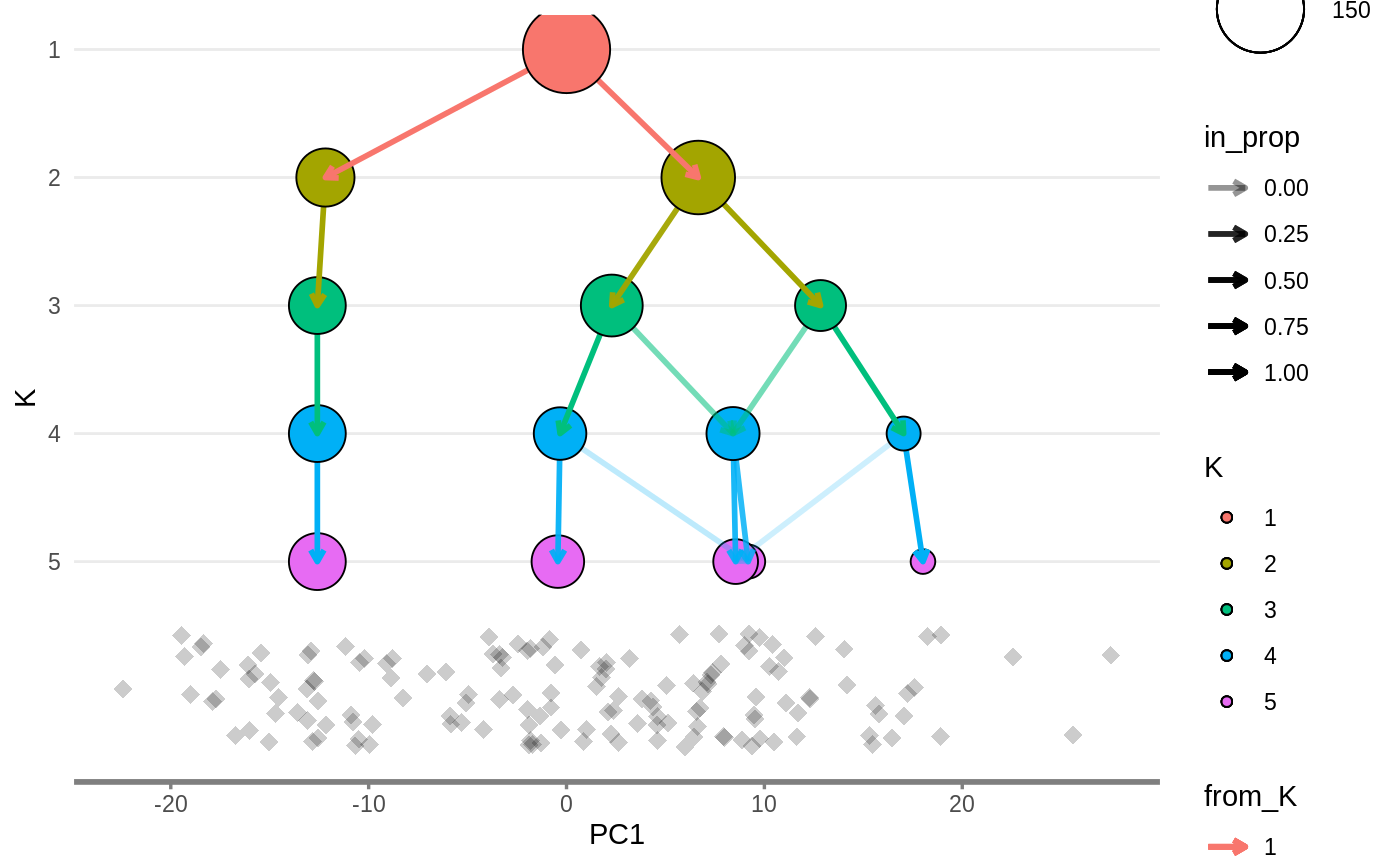
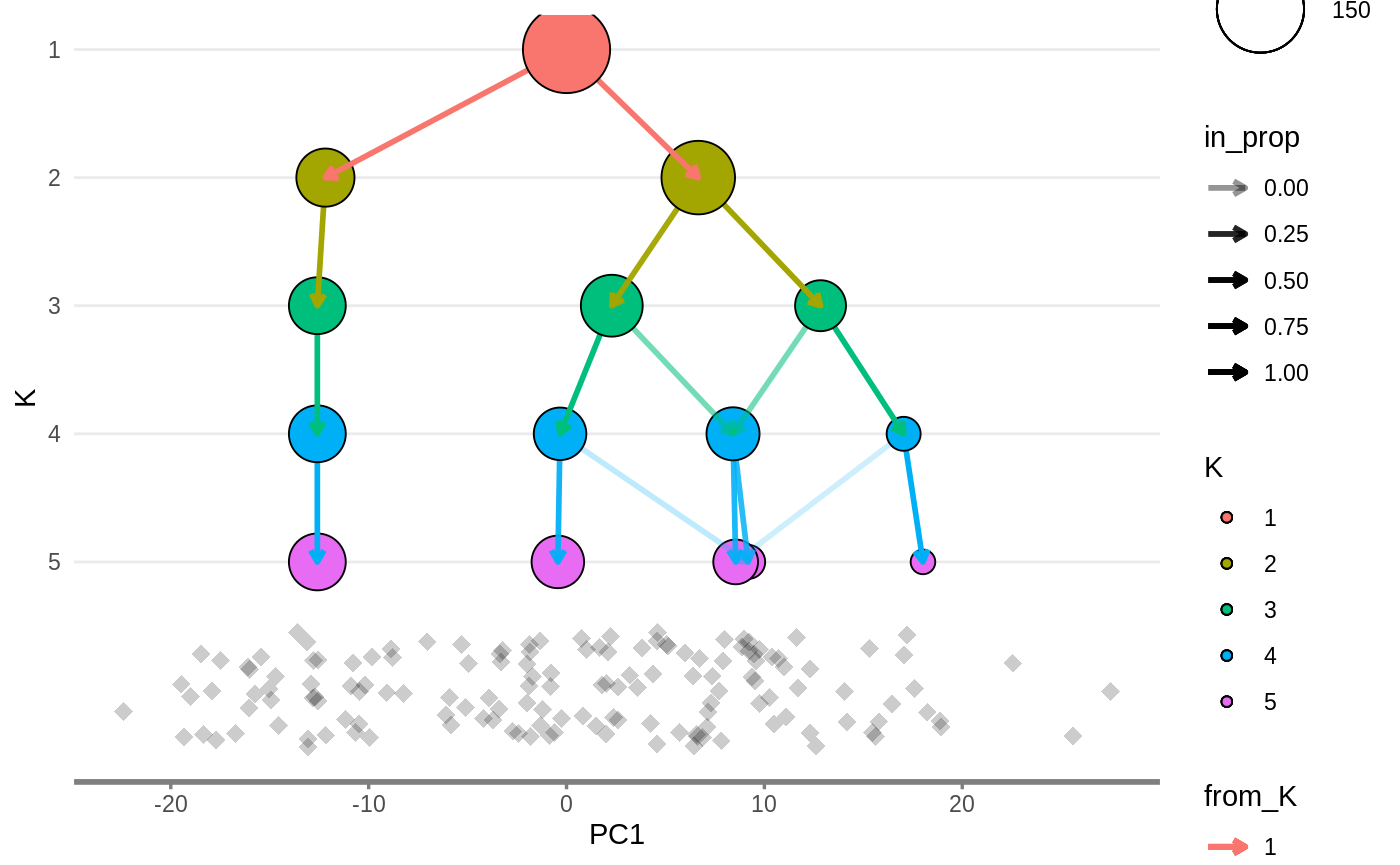
Built site for clustree: 0.4.3@583792c

diff --git a/news/index.html b/news/index.html
@@ -89,7 +89,7 @@
       </button>
       <span class="navbar-brand">
         <a class="navbar-link" href="../index.html">clustree</a>
-        <span class="version label label-default" data-toggle="tooltip" data-placement="bottom" title="Released version">0.4.2.9003</span>
+        <span class="version label label-default" data-toggle="tooltip" data-placement="bottom" title="Released version">0.4.3</span>
       </span>
     </div>
 
@@ -135,12 +135,65 @@
       <small>Source: <a href='https://github.com/lazappi/clustree/blob/master/NEWS.md'><code>NEWS.md</code></a></small>
     </div>
 
-    <div id="clustree-0-4-2-2020-01-29" class="section level1">
-<h1 class="page-header" data-toc-text="0.4.2">
-<a href="#clustree-0-4-2-2020-01-29" class="anchor"></a><small> 2020-01-29 </small><em>clustree</em> 0.4.2 (2020-01-29)</h1>
+    <div id="clustree-0-4-3-2020-06-12" class="section level1">
+<h1 class="page-header" data-toc-text="0.4.3">
+<a href="#clustree-0-4-3-2020-06-12" class="anchor"></a><small> Unreleased </small><em>clustree</em> 0.4.3 (2020-06-12)</h1>
 <div id="bug-fixes" class="section level2">
 <h2 class="hasAnchor">
 <a href="#bug-fixes" class="anchor"></a>Bug fixes</h2>
+<ul>
+<li>Fix axis label order in <code><a href="../reference/clustree.html">clustree()</a></code> (Fixes <a href='https://github.com/lazappi/clustree/issues/44'>#44</a>)</li>
+<li>Add checks to handle features including “-” characters for <em>Seurat</em> and <em>SingleCellExperiment</em> interfaces to <code><a href="../reference/clustree.html">clustree()</a></code> and <code><a href="../reference/clustree_overlay.html">clustree_overlay()</a></code> (Fixes <a href='https://github.com/lazappi/clustree/issues/43'>#43</a>)</li>
+<li>Change how metadata columns are extracted for compatibility with <code>tibble</code> objects (Fixes <a href='https://github.com/lazappi/clustree/issues/52'>#52</a>)</li>
+</ul>
+</div>
+<div id="other-changes" class="section level2">
+<h2 class="hasAnchor">
+<a href="#other-changes" class="anchor"></a>Other changes</h2>
+<ul>
+<li>Replace the <code>iris_clusts</code> dataset with the <code>nba_clusts</code> dataset</li>
+<li>Increase R dependency to &gt; 3.5</li>
+</ul>
+</div>
+<div id="development-versions" class="section level2">
+<h2 class="hasAnchor">
+<a href="#development-versions" class="anchor"></a>Development versions</h2>
+<div id="clustree-0-4-2-9003-2020-06-12" class="section level3">
+<h3 class="hasAnchor">
+<a href="#clustree-0-4-2-9003-2020-06-12" class="anchor"></a><em>clustree</em> 0.4.2.9003 (2020-06-12)</h3>
+<ul>
+<li>Change how metadata columns are extracted for compatibility with <code>tibble</code> objects (Fixes <a href='https://github.com/lazappi/clustree/issues/52'>#52</a>)</li>
+</ul>
+</div>
+<div id="clustree-0-4-2-9002-2020-06-12" class="section level3">
+<h3 class="hasAnchor">
+<a href="#clustree-0-4-2-9002-2020-06-12" class="anchor"></a><em>clustree</em> 0.4.2.9002 (2020-06-12)</h3>
+<ul>
+<li>Replace the <code>iris_clusts</code> dataset with the <code>nba_clusts</code> dataset</li>
+</ul>
+</div>
+<div id="clustree-0-4-2-9001-2020-03-20" class="section level3">
+<h3 class="hasAnchor">
+<a href="#clustree-0-4-2-9001-2020-03-20" class="anchor"></a><em>clustree</em> 0.4.2.9001 (2020-03-20)</h3>
+<ul>
+<li>Add checks to handle features including “-” characters for <em>Seurat</em> and <em>SingleCellExperiment</em> interfaces to <code><a href="../reference/clustree.html">clustree()</a></code> and <code><a href="../reference/clustree_overlay.html">clustree_overlay()</a></code> (Fixes <a href='https://github.com/lazappi/clustree/issues/43'>#43</a>)</li>
+</ul>
+</div>
+<div id="clustree-0-4-2-9000-2020-03-19" class="section level3">
+<h3 class="hasAnchor">
+<a href="#clustree-0-4-2-9000-2020-03-19" class="anchor"></a><em>clustree</em> 0.4.2.9000 (2020-03-19)</h3>
+<ul>
+<li>Fix axis label order in <code><a href="../reference/clustree.html">clustree()</a></code> (Fixes <a href='https://github.com/lazappi/clustree/issues/44'>#44</a>)</li>
+</ul>
+</div>
+</div>
+</div>
+    <div id="clustree-0-4-2-2020-01-29" class="section level1">
+<h1 class="page-header" data-toc-text="0.4.2">
+<a href="#clustree-0-4-2-2020-01-29" class="anchor"></a><small> 2020-01-29 </small><em>clustree</em> 0.4.2 (2020-01-29)</h1>
+<div id="bug-fixes-1" class="section level2">
+<h2 class="hasAnchor">
+<a href="#bug-fixes-1" class="anchor"></a>Bug fixes</h2>
 <ul>
 <li>Fix bug where the <code>sc_example</code> dataset required loading additional libraries as notified by CRAN (Fixes <a href='https://github.com/lazappi/clustree/issues/40'>#40</a>)
 <ul>
@@ -163,9 +216,9 @@
 <li>Fixes for minor bugs discovered with new unit tests</li>
 </ul>
 </div>
-<div id="other-changes" class="section level2">
+<div id="other-changes-1" class="section level2">
 <h2 class="hasAnchor">
-<a href="#other-changes" class="anchor"></a>Other changes</h2>
+<a href="#other-changes-1" class="anchor"></a>Other changes</h2>
 <ul>
 <li>Add additional unit tests, including some missing from <code><a href="../reference/clustree_overlay.html">clustree_overlay()</a></code>
 <ul>
@@ -178,33 +231,32 @@
 <div id="development-versions-1" class="section level2">
 <h2 class="hasAnchor">
 <a href="#development-versions-1" class="anchor"></a>Development versions</h2>
-</div>
-<div id="clustree-0-4-1-9005-2020-01-29" class="section level2">
-<h2 class="hasAnchor">
-<a href="#clustree-0-4-1-9005-2020-01-29" class="anchor"></a><em>clustree</em> 0.4.1.9005 (2020-01-29)</h2>
+<div id="clustree-0-4-1-9005-2020-01-29" class="section level3">
+<h3 class="hasAnchor">
+<a href="#clustree-0-4-1-9005-2020-01-29" class="anchor"></a><em>clustree</em> 0.4.1.9005 (2020-01-29)</h3>
 <ul>
 <li>Add additional unit tests, including some missing from <code><a href="../reference/clustree_overlay.html">clustree_overlay()</a></code>
 </li>
 <li>Minor fixes for bugs discovered with new tests</li>
 </ul>
 </div>
-<div id="clustree-0-4-1-9004-2020-01-28" class="section level2">
-<h2 class="hasAnchor">
-<a href="#clustree-0-4-1-9004-2020-01-28" class="anchor"></a><em>clustree</em> 0.4.1.9004 (2020-01-28)</h2>
+<div id="clustree-0-4-1-9004-2020-01-28" class="section level3">
+<h3 class="hasAnchor">
+<a href="#clustree-0-4-1-9004-2020-01-28" class="anchor"></a><em>clustree</em> 0.4.1.9004 (2020-01-28)</h3>
 <ul>
 <li>Add additional unit tests</li>
 </ul>
 </div>
-<div id="clustree-0-4-1-9003-2020-01-28" class="section level2">
-<h2 class="hasAnchor">
-<a href="#clustree-0-4-1-9003-2020-01-28" class="anchor"></a><em>clustree</em> 0.4.1.9003 (2020-01-28)</h2>
+<div id="clustree-0-4-1-9003-2020-01-28" class="section level3">
+<h3 class="hasAnchor">
+<a href="#clustree-0-4-1-9003-2020-01-28" class="anchor"></a><em>clustree</em> 0.4.1.9003 (2020-01-28)</h3>
 <ul>
 <li>Add fixed alpha scale range to <code><a href="../reference/clustree_overlay.html">clustree_overlay()</a></code> (Fixes <a href='https://github.com/lazappi/clustree/issues/41'>#41</a>)</li>
 </ul>
 </div>
-<div id="clustree-0-4-1-9002-2020-01-28" class="section level2">
-<h2 class="hasAnchor">
-<a href="#clustree-0-4-1-9002-2020-01-28" class="anchor"></a><em>clustree</em> 0.4.1.9002 (2020-01-28)</h2>
+<div id="clustree-0-4-1-9002-2020-01-28" class="section level3">
+<h3 class="hasAnchor">
+<a href="#clustree-0-4-1-9002-2020-01-28" class="anchor"></a><em>clustree</em> 0.4.1.9002 (2020-01-28)</h3>
 <ul>
 <li>Add tests for matching prefix values</li>
 <li>Change prefix matching to simpler exact method without regular expressions</li>
@@ -212,16 +264,16 @@
 <li>Change how point colour resolution name is determined (Fixes <a href='https://github.com/lazappi/clustree/issues/38'>#38</a>)</li>
 </ul>
 </div>
-<div id="clustree-0-4-1-9001-2020-01-27" class="section level2">
-<h2 class="hasAnchor">
-<a href="#clustree-0-4-1-9001-2020-01-27" class="anchor"></a><em>clustree</em> 0.4.1.9001 (2020-01-27)</h2>
+<div id="clustree-0-4-1-9001-2020-01-27" class="section level3">
+<h3 class="hasAnchor">
+<a href="#clustree-0-4-1-9001-2020-01-27" class="anchor"></a><em>clustree</em> 0.4.1.9001 (2020-01-27)</h3>
 <ul>
 <li>Fix missing alpha scale (Fixes <a href='https://github.com/lazappi/clustree/issues/32'>#32</a>)</li>
 </ul>
 </div>
-<div id="clustree-0-4-1-9000-2020-01-27" class="section level2">
-<h2 class="hasAnchor">
-<a href="#clustree-0-4-1-9000-2020-01-27" class="anchor"></a><em>clustree</em> 0.4.1.9000 (2020-01-27)</h2>
+<div id="clustree-0-4-1-9000-2020-01-27" class="section level3">
+<h3 class="hasAnchor">
+<a href="#clustree-0-4-1-9000-2020-01-27" class="anchor"></a><em>clustree</em> 0.4.1.9000 (2020-01-27)</h3>
 <ul>
 <li>Fix bug where the <code>sc_example</code> dataset required loading additional libraries (Fixes <a href='https://github.com/lazappi/clustree/issues/40'>#40</a>)
 <ul>
@@ -232,12 +284,13 @@
 </ul>
 </div>
 </div>
+</div>
     <div id="clustree-0-4-1-2019-08-19" class="section level1">
 <h1 class="page-header" data-toc-text="0.4.1">
 <a href="#clustree-0-4-1-2019-08-19" class="anchor"></a><small> 2019-08-21 </small><em>clustree</em> 0.4.1 (2019-08-19)</h1>
-<div id="bug-fixes-1" class="section level2">
+<div id="bug-fixes-2" class="section level2">
 <h2 class="hasAnchor">
-<a href="#bug-fixes-1" class="anchor"></a>Bug fixes</h2>
+<a href="#bug-fixes-2" class="anchor"></a>Bug fixes</h2>
 <ul>
 <li>Remove requirement for clustering matrix to be numeric (Fixes <a href='https://github.com/lazappi/clustree/issues/33'>#33</a>)</li>
 <li>Fix bug where <code>sc3_stability</code> became character with character cluster names</li>
@@ -308,9 +361,9 @@
 </li>
 </ul>
 </div>
-<div id="bug-fixes-2" class="section level2">
+<div id="bug-fixes-3" class="section level2">
 <h2 class="hasAnchor">
-<a href="#bug-fixes-2" class="anchor"></a>Bug fixes</h2>
+<a href="#bug-fixes-3" class="anchor"></a>Bug fixes</h2>
 <ul>
 <li>Add checks for metadata column and node aesthetic names (Fixes <a href='https://github.com/lazappi/clustree/issues/15'>#15</a>)</li>
 <li>Use fixed patterns when identifying clustering columns in <code>data.frames</code> (Fixes

diff --git a/reference/plot_overlay_side.html b/reference/plot_overlay_side.html
@@ -92,7 +92,7 @@ x or y dimension and the clustering resolution." />
       </button>
       <span class="navbar-brand">
         <a class="navbar-link" href="../index.html">clustree</a>
-        <span class="version label label-default" data-toggle="tooltip" data-placement="bottom" title="Released version">0.4.2.9003</span>
+        <span class="version label label-default" data-toggle="tooltip" data-placement="bottom" title="Released version">0.4.3</span>
       </span>
     </div>
 

diff --git a/reference/sc_example.html b/reference/sc_example.html
@@ -91,7 +91,7 @@ clustered using the SC3 and Seurat packages." />
       </button>
       <span class="navbar-brand">
         <a class="navbar-link" href="../index.html">clustree</a>
-        <span class="version label label-default" data-toggle="tooltip" data-placement="bottom" title="Released version">0.4.2.9003</span>
+        <span class="version label label-default" data-toggle="tooltip" data-placement="bottom" title="Released version">0.4.3</span>
       </span>
     </div>
 

diff --git a/reference/clustree.html b/reference/clustree.html
@@ -91,7 +91,7 @@ clusterings at different resolutions." />
       </button>
       <span class="navbar-brand">
         <a class="navbar-link" href="../index.html">clustree</a>
-        <span class="version label label-default" data-toggle="tooltip" data-placement="bottom" title="Released version">0.4.2.9003</span>
+        <span class="version label label-default" data-toggle="tooltip" data-placement="bottom" title="Released version">0.4.3</span>
       </span>
     </div>
 

diff --git a/reference/clustree-package.html b/reference/clustree-package.html
@@ -94,7 +94,7 @@ clusterings as resolution increases." />
       </button>
       <span class="navbar-brand">
         <a class="navbar-link" href="../index.html">clustree</a>
-        <span class="version label label-default" data-toggle="tooltip" data-placement="bottom" title="Released version">0.4.2.9003</span>
+        <span class="version label label-default" data-toggle="tooltip" data-placement="bottom" title="Released version">0.4.3</span>
       </span>
     </div>
 

diff --git a/reference/calc_sc3_stability_cluster.html b/reference/calc_sc3_stability_cluster.html
@@ -92,7 +92,7 @@ more stable across resolutions." />
       </button>
       <span class="navbar-brand">
         <a class="navbar-link" href="../index.html">clustree</a>
-        <span class="version label label-default" data-toggle="tooltip" data-placement="bottom" title="Released version">0.4.2.9003</span>
+        <span class="version label label-default" data-toggle="tooltip" data-placement="bottom" title="Released version">0.4.3</span>
       </span>
     </div>
 

diff --git a/404.html b/404.html
@@ -89,7 +89,7 @@
       </button>
       <span class="navbar-brand">
         <a class="navbar-link" href="http://lazappi.github.io/clustree/index.html">clustree</a>
-        <span class="version label label-default" data-toggle="tooltip" data-placement="bottom" title="Released version">0.4.2.9003</span>
+        <span class="version label label-default" data-toggle="tooltip" data-placement="bottom" title="Released version">0.4.3</span>
       </span>
     </div>
 

diff --git a/reference/calc_sc3_stability.html b/reference/calc_sc3_stability.html
@@ -93,7 +93,7 @@ for more details." />
       </button>
       <span class="navbar-brand">
         <a class="navbar-link" href="../index.html">clustree</a>
-        <span class="version label label-default" data-toggle="tooltip" data-placement="bottom" title="Released version">0.4.2.9003</span>
+        <span class="version label label-default" data-toggle="tooltip" data-placement="bottom" title="Released version">0.4.3</span>
       </span>
     </div>
 

diff --git a/reference/overlay_node_points.html b/reference/overlay_node_points.html
@@ -91,7 +91,7 @@ aesthetics." />
       </button>
       <span class="navbar-brand">
         <a class="navbar-link" href="../index.html">clustree</a>
-        <span class="version label label-default" data-toggle="tooltip" data-placement="bottom" title="Released version">0.4.2.9003</span>
+        <span class="version label label-default" data-toggle="tooltip" data-placement="bottom" title="Released version">0.4.3</span>
       </span>
     </div>
 

diff --git a/reference/build_tree_graph.html b/reference/build_tree_graph.html
@@ -91,7 +91,7 @@ aesthetics" />
       </button>
       <span class="navbar-brand">
         <a class="navbar-link" href="../index.html">clustree</a>
-        <span class="version label label-default" data-toggle="tooltip" data-placement="bottom" title="Released version">0.4.2.9003</span>
+        <span class="version label label-default" data-toggle="tooltip" data-placement="bottom" title="Released version">0.4.3</span>
       </span>
     </div>
 

diff --git a/reference/clustree_overlay.html b/reference/clustree_overlay.html
@@ -91,7 +91,7 @@ samples." />
       </button>
       <span class="navbar-brand">
         <a class="navbar-link" href="../index.html">clustree</a>
-        <span class="version label label-default" data-toggle="tooltip" data-placement="bottom" title="Released version">0.4.2.9003</span>
+        <span class="version label label-default" data-toggle="tooltip" data-placement="bottom" title="Released version">0.4.3</span>
       </span>
     </div>
 

diff --git a/articles/clustree.html b/articles/clustree.html
@@ -44,7 +44,7 @@
       </button>
       <span class="navbar-brand">
         <a class="navbar-link" href="../index.html">clustree</a>
-        <span class="version label label-default" data-toggle="tooltip" data-placement="bottom" title="Released version">0.4.2.9003</span>
+        <span class="version label label-default" data-toggle="tooltip" data-placement="bottom" title="Released version">0.4.3</span>
       </span>
     </div>
 
